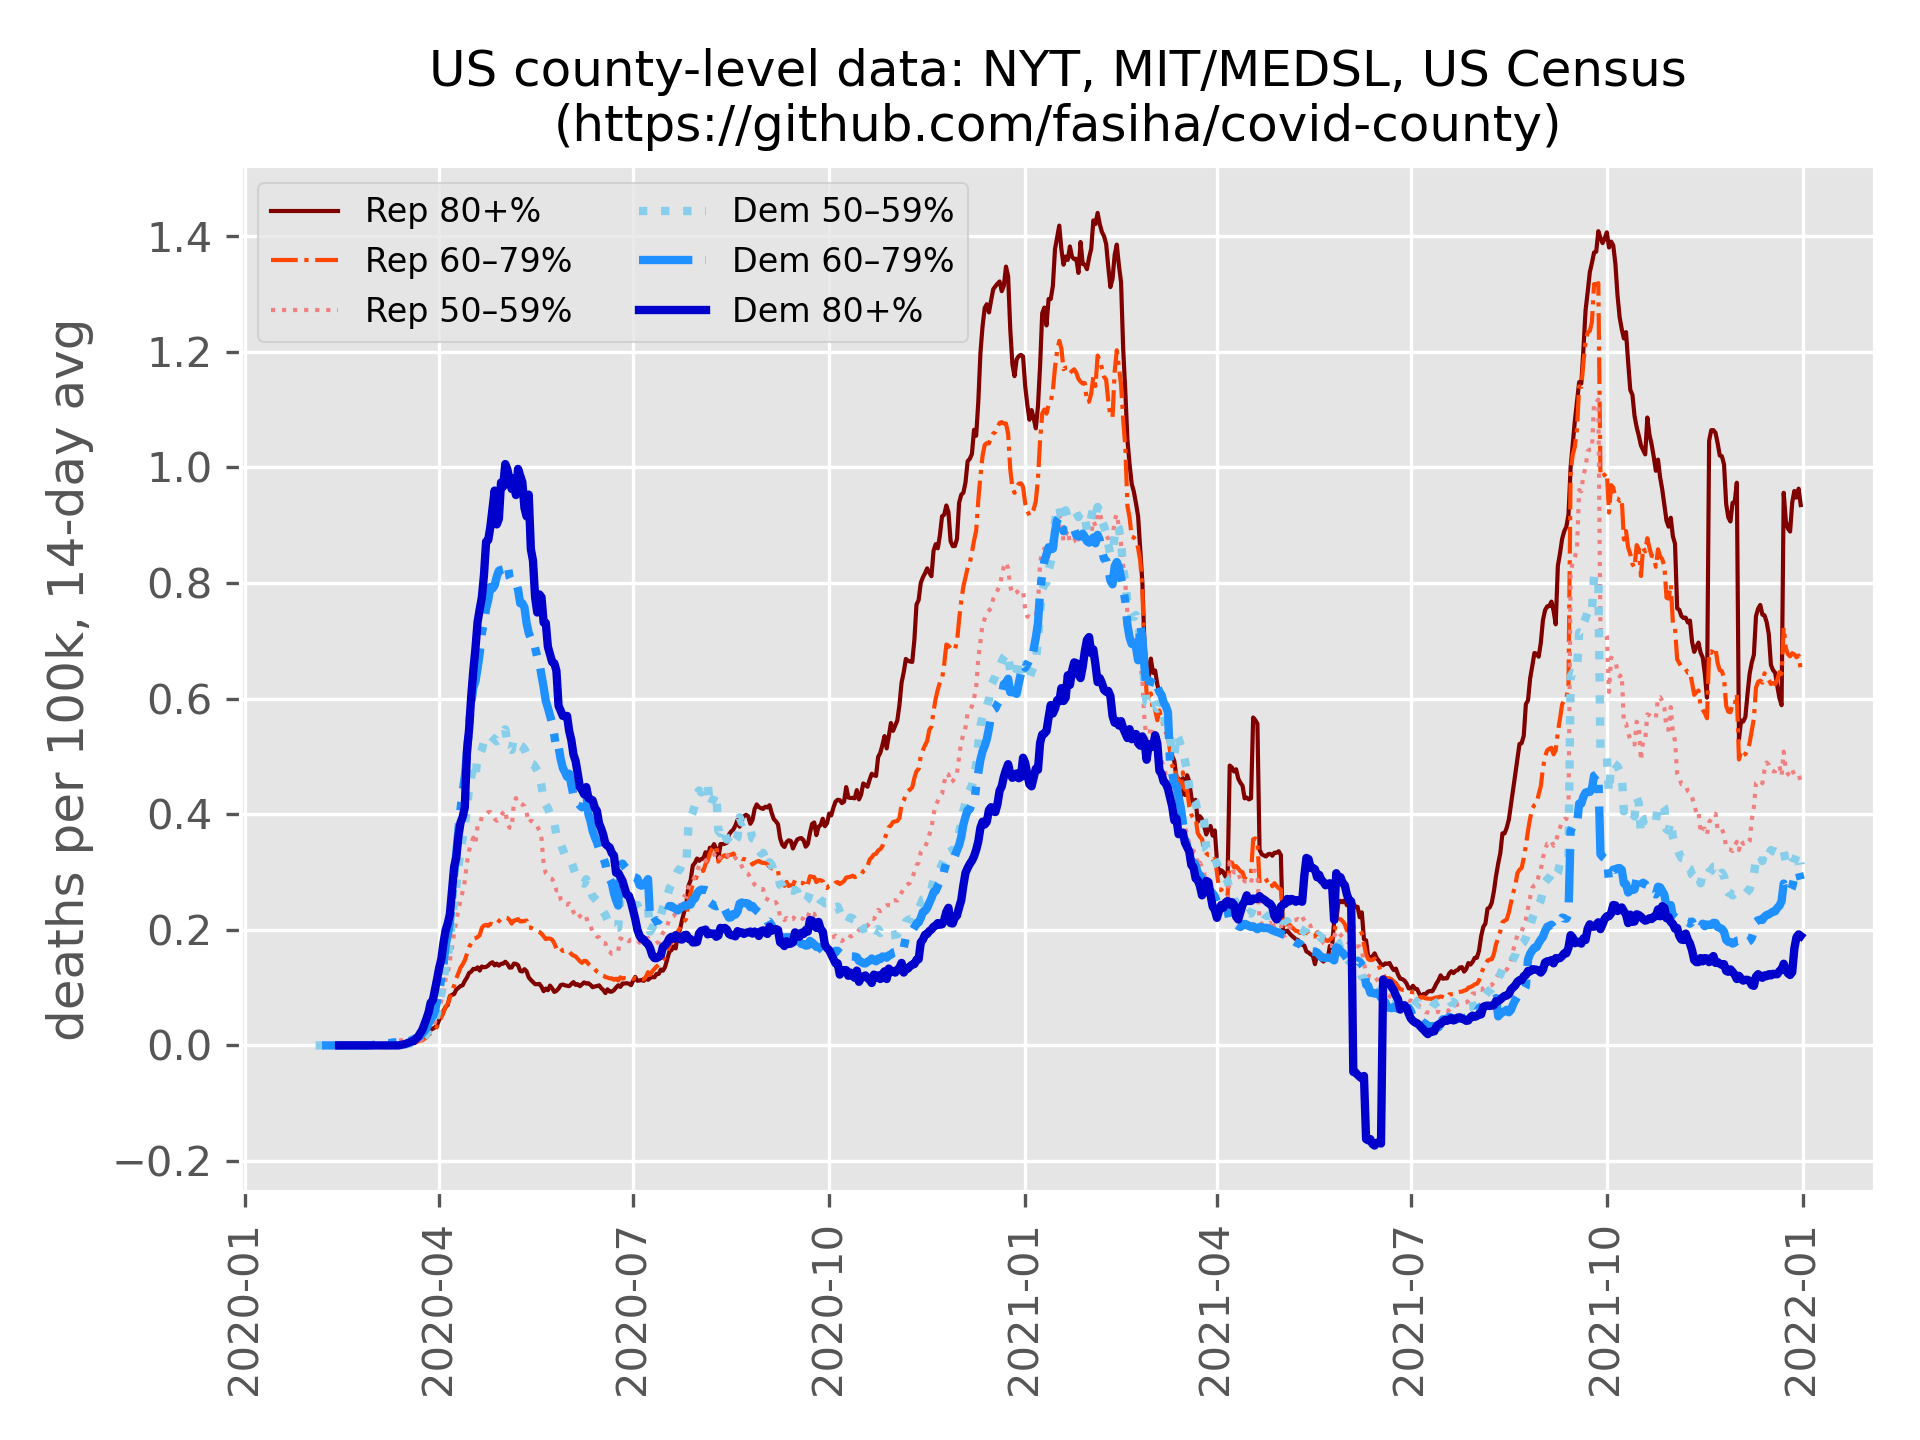
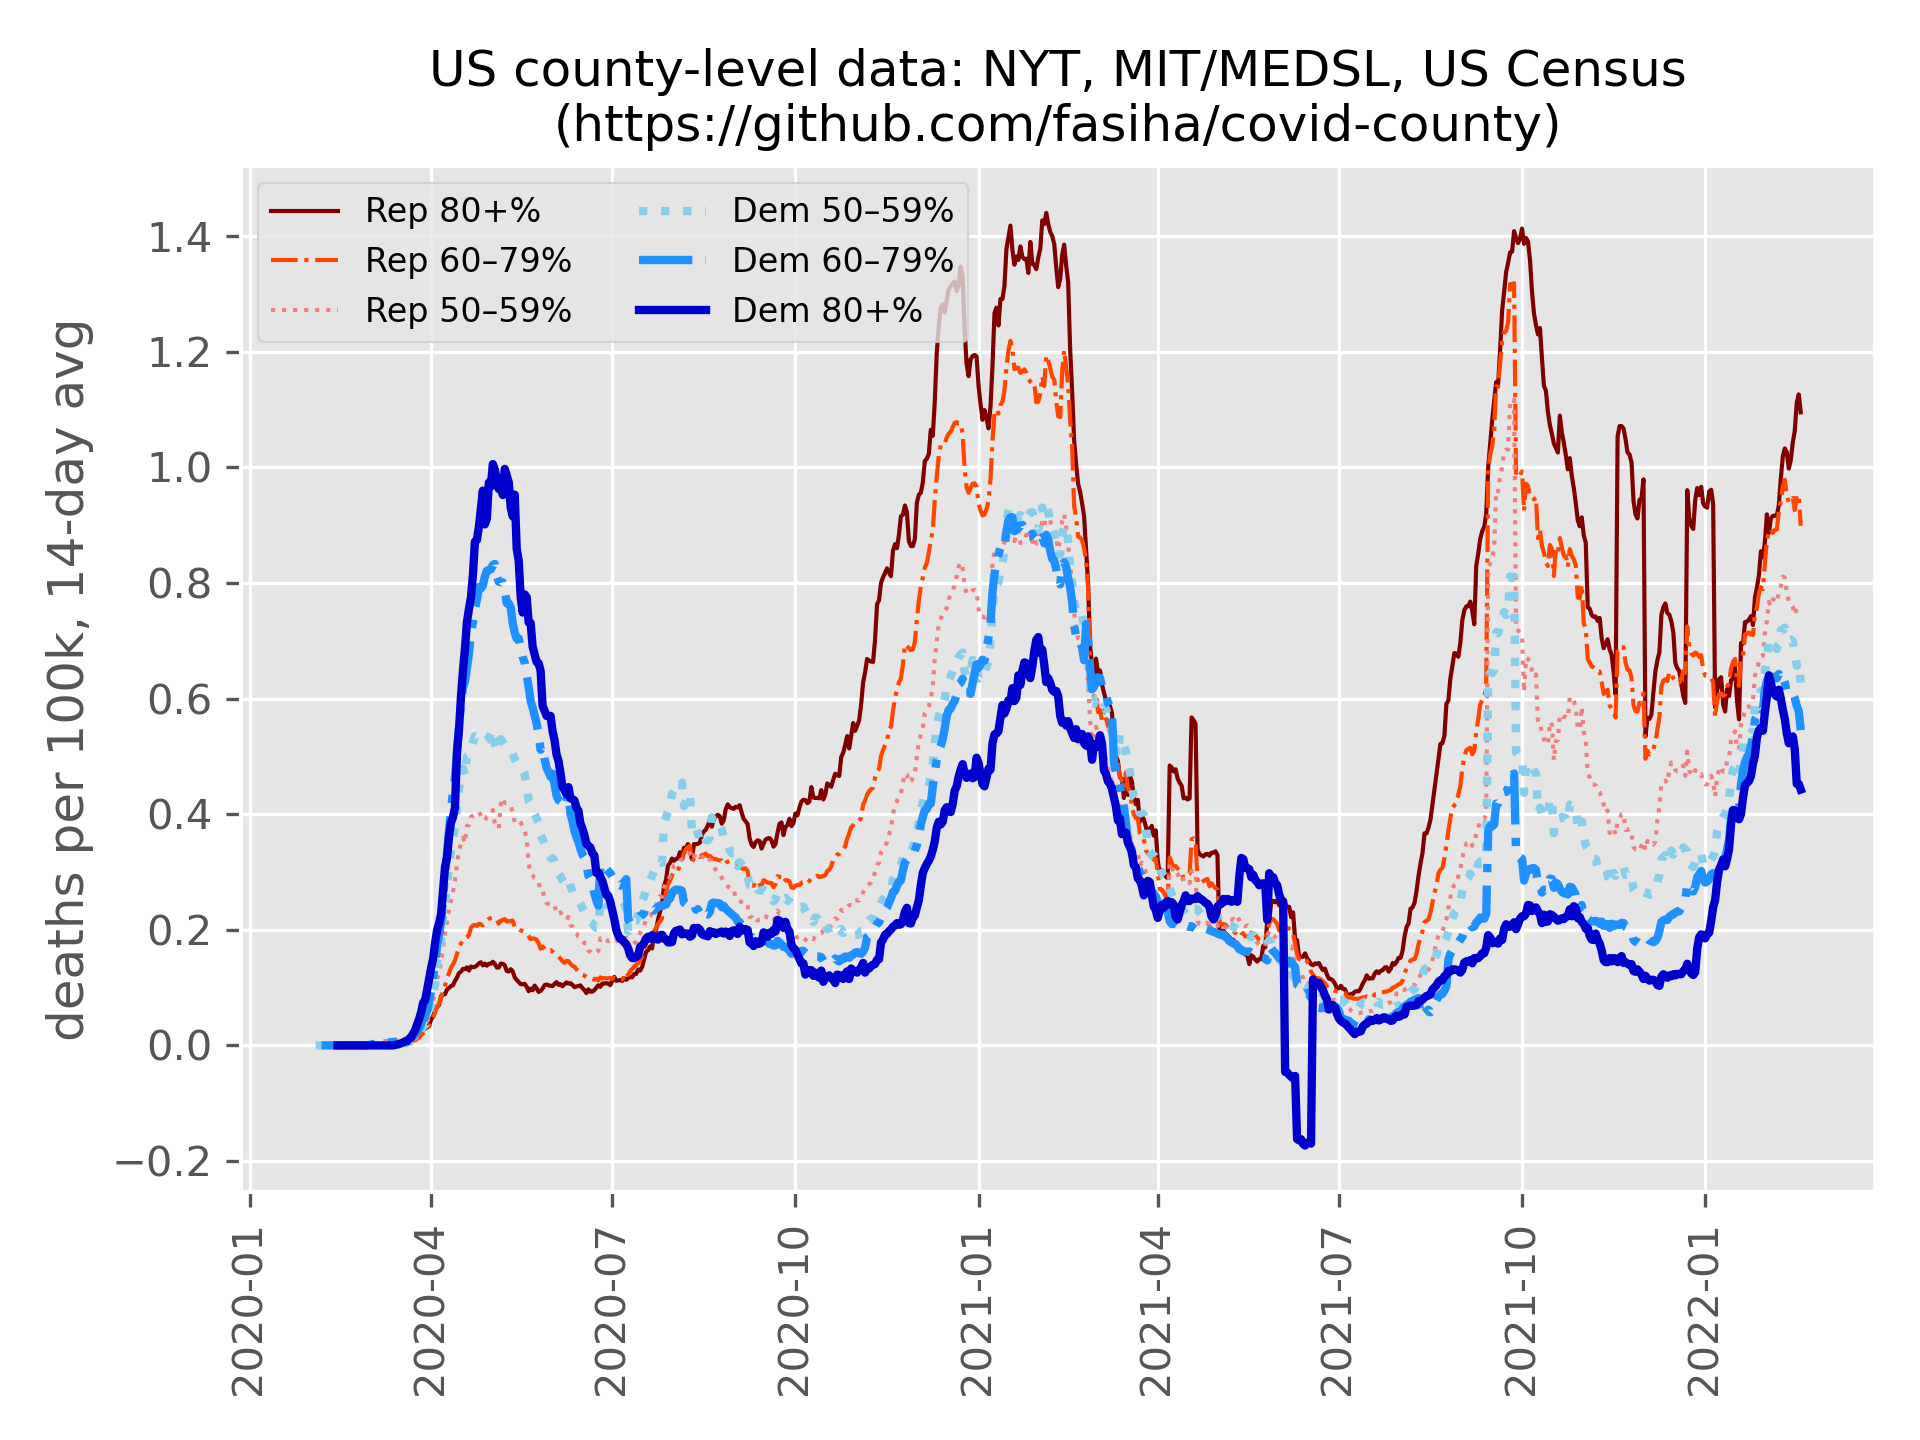
process 2022 data too

diff --git a/main.py b/main.py
@@ -38,7 +38,8 @@ if NYT_FAKE_NYC_FIPS not in county_to_party:
 ## covid
 covid = pd.concat([
     pd.read_csv('covid-19-data/rolling-averages/us-counties-2020.csv', parse_dates=['date']),
-    pd.read_csv('covid-19-data/rolling-averages/us-counties-2021.csv', parse_dates=['date'])
+    pd.read_csv('covid-19-data/rolling-averages/us-counties-2021.csv', parse_dates=['date']),
+    pd.read_csv('covid-19-data/rolling-averages/us-counties-2022.csv', parse_dates=['date']),
 ])
 
 geoid_to_deaths = covid.groupby(['geoid'])['deaths'].sum().to_frame()

diff --git a/README.md b/README.md
@@ -34,14 +34,14 @@ python main.py
 ## More results
 | party bin  | total Covid-19 deaths |
 | :--------- | --------------------: |
-| Rep 80+%   |                 39708 |
-| Rep 60–79% |                217915 |
-| Rep 50–59% |                126853 |
-| Dem 50–59% |                199702 |
-| Dem 60–79% |                213706 |
-| Dem 80+%   |                 18591 |
-| unknown    |                  5520 |
+| Rep 80+%   |                 44480 |
+| Rep 60–79% |                247023 |
+| Rep 50–59% |                144265 |
+| Dem 50–59% |                224710 |
+| Dem 60–79% |                239841 |
+| Dem 80+%   |                 20980 |
+| unknown    |                  8745 |
 
 Simply by party:
-- Dem: 431999
-- Rep: 384476
+- Dem: 485531
+- Rep: 435768
